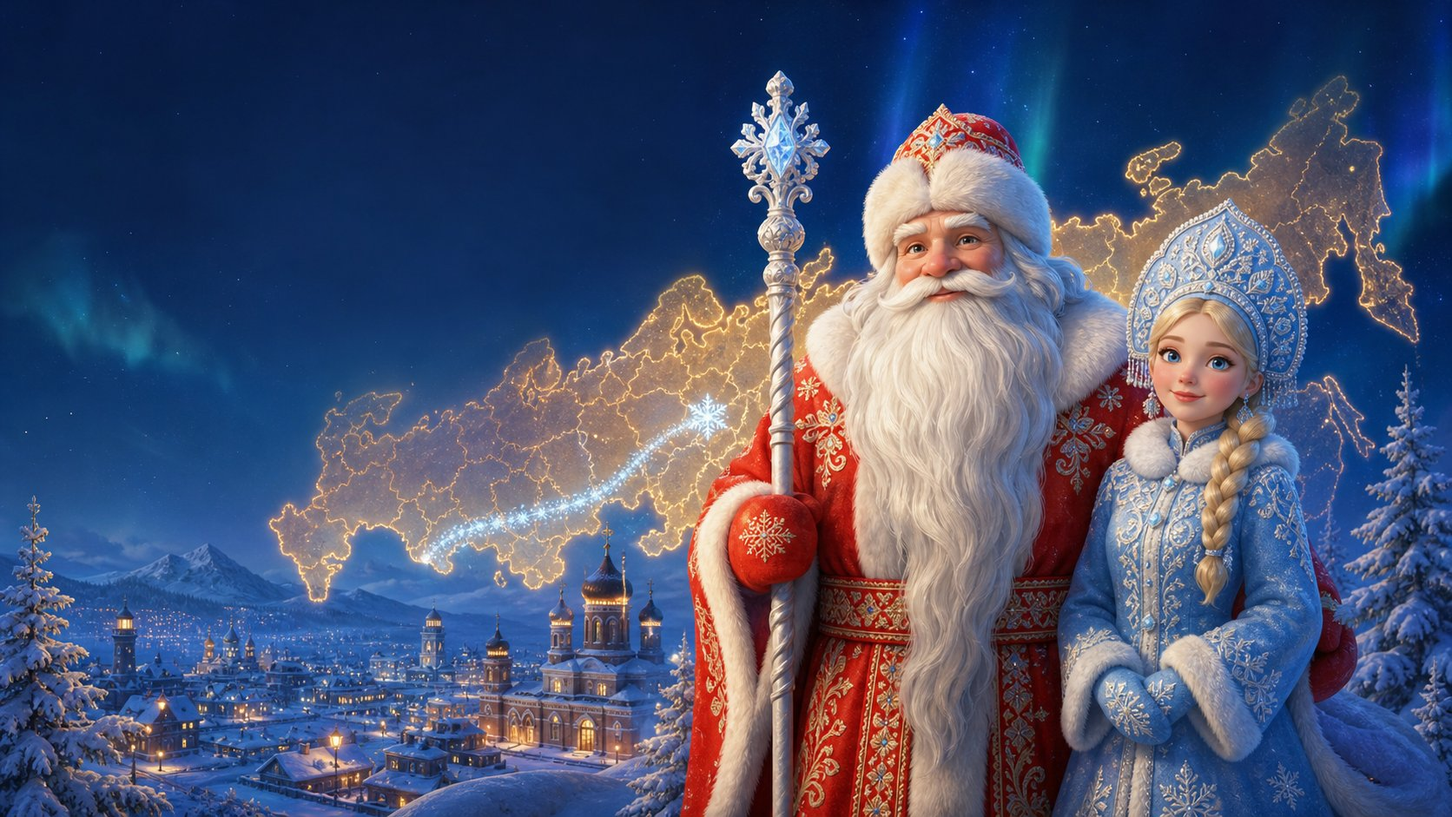
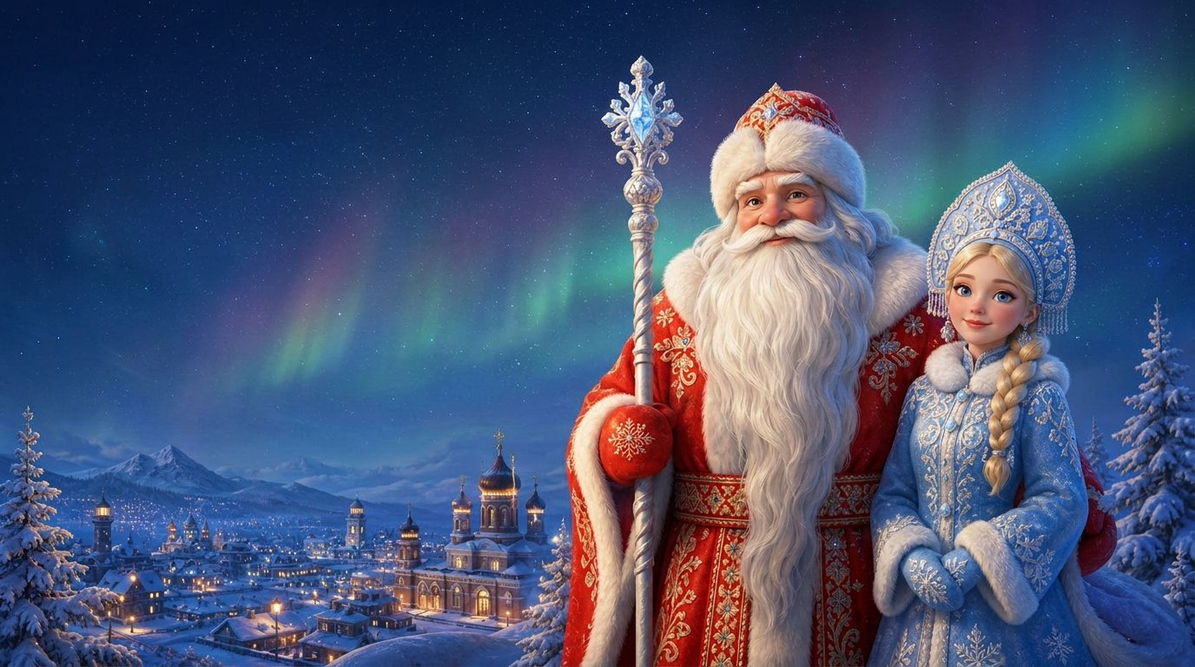
Redesign Tatarstan slide and remove cover map

diff --git a/quest.html b/quest.html
@@ -9,19 +9,20 @@
 .mapbox{position:relative}.gallery-card:after{display:none}.cover-visual>img:first-child{object-fit:contain;background:transparent}.fit-frame>img:first-child{object-fit:contain;background:transparent}.scene-card{height:auto;aspect-ratio:16/9;min-height:0}.scene-card>img:first-child{object-fit:contain;background:#101820}.scene-card:after{inset:62% 0 0}.scene-card .scene-title{z-index:3}.light-ribbons{opacity:.18}.light-ribbons path{stroke-width:1.6;stroke-dasharray:2 44;filter:drop-shadow(0 0 2px #ffcf4d);animation-duration:17s}.light-ribbons path:nth-child(2){stroke-width:1.2;animation-duration:22s}@media(max-width:600px){.two-scenes{grid-template-columns:1fr}.scene-card{aspect-ratio:16/9;min-height:0}}
 .slide{position:relative}.slide .voice-button{position:absolute;top:12px;right:12px;z-index:8;width:46px;height:46px;margin:0;padding:0;display:grid;place-items:center;gap:0;border-radius:50%;background:#192630e8;border-color:#ffffff55;box-shadow:0 4px 18px #0005}.slide .voice-button svg{width:22px;height:22px;fill:currentColor;stroke:currentColor;stroke-width:1.7;stroke-linecap:round;stroke-linejoin:round}.slide .voice-button svg path+path{fill:none}.slide .voice-button.playing{background:var(--accent);border-color:var(--accent)}.layout{display:flex;flex-direction:column;align-items:stretch;gap:clamp(18px,3vh,30px)}.layout .story-copy{order:0;max-width:none;width:100%}.layout>.visual{order:1;width:100%;height:min(52vh,560px)}.map-layout{display:flex;flex-direction:column;align-items:stretch;gap:clamp(18px,3vh,28px)}.map-layout .mapbox{width:100%}.two-scenes{grid-template-columns:minmax(0,1fr);gap:22px;margin-top:22px}.two-scenes .scene-card{width:100%;height:auto;min-height:0;aspect-ratio:16/9}.two-scenes .scene-card>img:first-child{object-fit:contain;background:#101820}@media(max-width:900px){.slide .voice-button{top:8px;right:8px;width:42px;height:42px}.layout>.visual{height:min(42vh,440px)}.two-scenes{gap:16px}}@media(max-width:600px){.slide .voice-button{top:5px;right:5px;width:40px;height:40px}.layout>.visual{height:min(38vh,360px)}.two-scenes .scene-card{aspect-ratio:16/10}}
 .dots{gap:2px}.dot{width:24px;height:24px;padding:0;display:grid;place-items:center;position:relative;background:transparent;transform:none;transition:none}.dot:before{content:"";width:7px;height:7px;border-radius:50%;background:#ffffff55;transition:transform .2s,background .2s}.dot.active{background:transparent;transform:none}.dot.active:before{background:var(--accent);transform:scale(1.55)}.toolbar{gap:8px;padding:8px 12px}.slide-controls{display:flex;align-items:center;gap:6px}.control{width:44px;height:44px;display:grid;place-items:center;flex:0 0 auto;font-size:20px;transition:background .18s,opacity .18s}.control svg{width:21px;height:21px;fill:none;stroke:currentColor;stroke-width:2;stroke-linecap:round;stroke-linejoin:round}.control.next{width:46px;height:46px;padding:0;display:grid;place-items:center}.control.edge{background:#ffffff08}.control:disabled{opacity:.34;background:#ffffff05;cursor:not-allowed}.control:not(:disabled):hover{background:#ffffff25}.control.next:not(:disabled):hover{background:#f0ca7a}.counter{min-width:64px}.toolbar-divider{width:1px;height:28px;background:#ffffff30;margin:0 2px}@media(max-width:700px){.dots{display:none}}@media(max-width:460px){.toolbar{gap:3px;padding:6px}.slide-controls{gap:2px}.control{width:40px;height:40px}.control.next{width:42px;height:42px}.counter{min-width:45px;font-size:12px}.toolbar-divider{height:24px;margin:0 1px}.control.fullscreen{width:40px;height:40px}}
+.tatarstan-content{width:100%;display:flex;flex-direction:column;align-items:center;gap:clamp(12px,2vh,18px);padding:0 12px}.tatarstan-heading{text-align:center}.tatarstan-heading .eyebrow{margin-bottom:8px}.tatarstan-choices{display:flex;justify-content:center;gap:10px;flex-wrap:wrap}.tatarstan-choice{min-width:142px;min-height:44px;padding:9px 18px;border:1px solid #ffffff38;border-radius:999px;background:#ffffff0a;color:var(--text);font-weight:700;cursor:pointer;transition:background .2s,border-color .2s,color .2s}.tatarstan-choice:hover{border-color:#ffffff80}.tatarstan-choice.active{border-color:var(--accent);background:var(--accent);color:#17212a}.tatarstan-stage{position:relative;width:min(100%,88vh,980px);aspect-ratio:16/9;max-height:50vh;margin:0 auto;overflow:hidden;border-radius:var(--radius);background:#101820}.tatarstan-stage>img{display:block;width:100%;height:100%;object-fit:contain;background:#101820}.tatarstan-stage:after{content:"";position:absolute;z-index:2;inset:62% 0 0;background:linear-gradient(transparent,#101820c9);pointer-events:none}.tatarstan-caption{position:absolute;z-index:3;left:20px;bottom:16px;color:white;font-size:clamp(21px,2.6vw,32px);font-weight:750;text-shadow:0 2px 12px #000}.tatarstan-stage .scene-particles{z-index:1}@media(max-width:600px){.tatarstan-content{gap:12px;padding:0 4px}.tatarstan-heading .eyebrow{font-size:11px}.tatarstan-choice{min-width:128px;min-height:42px;padding:8px 13px}.tatarstan-stage{width:100%;aspect-ratio:16/10;max-height:42vh}.tatarstan-caption{left:14px;bottom:12px;font-size:20px}}
 </style>
 </head>
 <body>
 <header class="top"><div class="brand"><i class="brand-mark"></i>Волшебное путешествие</div><nav class="dots" id="dots" aria-label="Слайды"></nav></header><div class="progress"><i id="progress"></i></div>
 <main id="deck">
-<section class="slide active" data-title="Волшебное путешествие"><div class="layout cover-layout"><div class="story-copy"><p class="eyebrow">Новогодние традиции народов России</p><h1>Волшебное<br>путешествие</h1><p class="subline">Откройте новогодние и сезонные традиции народов России.</p><button class="voice-button" onclick="playNarration(1,this)" aria-label="Прослушать озвучку" title="Прослушать озвучку" aria-pressed="false"><svg viewBox="0 0 24 24" aria-hidden="true" focusable="false"><path d="M4 10v4h4l5 4V6l-5 4H4z"/><path d="M16 9a5 5 0 0 1 0 6M18.5 6.5a9 9 0 0 1 0 11"/></svg></button></div><figure class="visual cover-visual"><img src="images/cover-ded-moroz.jpg" alt="Дед Мороз и Снегурочка на фоне праздничной карты России"></figure></div></section>
+<section class="slide active" data-title="Волшебное путешествие"><div class="layout cover-layout"><div class="story-copy"><p class="eyebrow">Новогодние традиции народов России</p><h1>Волшебное<br>путешествие</h1><p class="subline">Откройте новогодние и сезонные традиции народов России.</p><button class="voice-button" onclick="playNarration(1,this)" aria-label="Прослушать озвучку" title="Прослушать озвучку" aria-pressed="false"><svg viewBox="0 0 24 24" aria-hidden="true" focusable="false"><path d="M4 10v4h4l5 4V6l-5 4H4z"/><path d="M16 9a5 5 0 0 1 0 6M18.5 6.5a9 9 0 0 1 0 11"/></svg></button></div><figure class="visual cover-visual"><img src="images/cover-ded-moroz.jpg" alt="Дед Мороз и Снегурочка на фоне сияющего зимнего неба и заснеженного города"></figure></div></section>
 <section class="slide" data-title="Россия"><div class="map-layout"><div class="map-copy"><p class="eyebrow">Маршрут путешествия</p><h2>Россия</h2><p class="subline">От востока к западу · 11 часовых поясов</p><div class="stat"><strong>11</strong><span>часовых поясов</span></div><button class="voice-button" onclick="playNarration(2,this)" aria-label="Прослушать озвучку" title="Прослушать озвучку" aria-pressed="false"><svg viewBox="0 0 24 24" aria-hidden="true" focusable="false"><path d="M4 10v4h4l5 4V6l-5 4H4z"/><path d="M16 9a5 5 0 0 1 0 6M18.5 6.5a9 9 0 0 1 0 11"/></svg></button></div><div class="mapbox"><svg viewBox="0 0 1100 460" role="img" aria-label="Схематичная карта России: восток справа, запад слева, маршрут огней движется на запад"><defs><linearGradient id="sea" x1="0" y1="0" x2="1" y2="1"><stop stop-color="#e8f5f4"/><stop offset="1" stop-color="#d6e9e7"/></linearGradient><linearGradient id="ground" x1="0" y1="0" x2="0" y2="1"><stop stop-color="#fffdf6"/><stop offset="1" stop-color="#e6f0e6"/></linearGradient><marker id="arrowWest" markerWidth="12" markerHeight="12" refX="2" refY="6" orient="auto"><path d="M12 0L0 6l12 6" fill="none" stroke="#d5a238" stroke-width="2.5"/></marker></defs><rect width="1100" height="460" rx="22" fill="url(#sea)"/><path d="M72 205l50-82 87-34 72-3 60-32 83 10 67-27 74 19 71-16 58 20 61-13 51 34 57-1 57 41 32 70-31 55-69 17-61 53-80-11-56 39-81-18-66 24-74-28-71 16-69-34-72 11-56-41-71-15-27-51z" fill="url(#ground)" stroke="#7eaaa6" stroke-width="5" stroke-linejoin="round"/><text x="548" y="238" text-anchor="middle" fill="#536e72" font-size="31" font-weight="700" letter-spacing="4">РОССИЯ</text><path d="M979 214 C865 116 808 326 692 211 S476 118 357 232 S191 320 112 221" fill="none" stroke="#d5a238" stroke-width="7" stroke-linecap="round" class="route-lights"/><g class="timezone-lights" aria-hidden="true"><g class="timezone" style="--delay:0s"><rect class="timezone-bar" x="964" y="185" width="9" height="58" rx="5"/><circle class="timezone-bulb" cx="968" cy="185" r="9"/></g><g class="timezone" style="--delay:.32s"><rect class="timezone-bar" x="879" y="133" width="9" height="52" rx="5"/><circle class="timezone-bulb" cx="883" cy="133" r="9"/></g><g class="timezone" style="--delay:.64s"><rect class="timezone-bar" x="795" y="176" width="9" height="54" rx="5"/><circle class="timezone-bulb" cx="799" cy="176" r="9"/></g><g class="timezone" style="--delay:.96s"><rect class="timezone-bar" x="708" y="205" width="9" height="54" rx="5"/><circle class="timezone-bulb" cx="712" cy="205" r="9"/></g><g class="timezone" style="--delay:1.28s"><rect class="timezone-bar" x="629" y="166" width="9" height="54" rx="5"/><circle class="timezone-bulb" cx="633" cy="166" r="9"/></g><g class="timezone" style="--delay:1.6s"><rect class="timezone-bar" x="546" y="143" width="9" height="54" rx="5"/><circle class="timezone-bulb" cx="550" cy="143" r="9"/></g><g class="timezone" style="--delay:1.92s"><rect class="timezone-bar" x="465" y="157" width="9" height="54" rx="5"/><circle class="timezone-bulb" cx="469" cy="157" r="9"/></g><g class="timezone" style="--delay:2.24s"><rect class="timezone-bar" x="384" y="201" width="9" height="54" rx="5"/><circle class="timezone-bulb" cx="388" cy="201" r="9"/></g><g class="timezone" style="--delay:2.56s"><rect class="timezone-bar" x="305" y="240" width="9" height="54" rx="5"/><circle class="timezone-bulb" cx="309" cy="240" r="9"/></g><g class="timezone" style="--delay:2.88s"><rect class="timezone-bar" x="215" y="251" width="9" height="54" rx="5"/><circle class="timezone-bulb" cx="219" cy="251" r="9"/></g><g class="timezone" style="--delay:3.2s"><rect class="timezone-bar" x="123" y="193" width="9" height="54" rx="5"/><circle class="timezone-bulb" cx="127" cy="193" r="9"/></g></g><path class="travel-spark" d="M0-9 2-2 9 0 2 2 0 9-2 2-9 0-2-2Z"><animateMotion dur="7s" repeatCount="indefinite" path="M979 214 C865 116 808 326 692 211 S476 118 357 232 S191 320 112 221"/></path><g class="mapstamp"><circle cx="978" cy="214" r="25" fill="#fff" stroke="#537e80" stroke-width="4"/><text x="978" y="223" text-anchor="middle" font-size="24">☀</text></g><g class="mapstamp"><circle cx="112" cy="221" r="25" fill="#fff" stroke="#537e80" stroke-width="4"/><text x="112" y="230" text-anchor="middle" font-size="24">✦</text></g><text x="1000" y="169" text-anchor="middle" fill="#25383e" font-size="18" font-weight="800">ВОСТОК</text><text x="100" y="169" text-anchor="middle" fill="#25383e" font-size="18" font-weight="800">ЗАПАД</text><g fill="#689e82"><circle cx="252" cy="170" r="9"/><circle cx="310" cy="293" r="8"/><circle cx="743" cy="300" r="10"/><circle cx="856" cy="172" r="8"/></g><text x="252" y="153" text-anchor="middle" font-size="20">✦</text><text x="310" y="278" text-anchor="middle" font-size="20">⌂</text><text x="743" y="281" text-anchor="middle" font-size="20">△</text><text x="856" y="151" text-anchor="middle" font-size="20">✧</text></svg></div></div></section>
 <section class="slide" data-title="Общий Новый год"><div class="layout"><div class="story-copy"><p class="eyebrow">Общая традиция</p><h2>Новый год</h2><p class="subline">1 января · ёлка · куранты</p><button class="voice-button" onclick="playNarration(3,this)" aria-label="Прослушать озвучку" title="Прослушать озвучку" aria-pressed="false"><svg viewBox="0 0 24 24" aria-hidden="true" focusable="false"><path d="M4 10v4h4l5 4V6l-5 4H4z"/><path d="M16 9a5 5 0 0 1 0 6M18.5 6.5a9 9 0 0 1 0 11"/></svg></button></div><figure class="visual tree-visual"><img src="images/newyear-family.jpg" alt="Семья украшает ёлку перед Новым годом"><svg class="tree-effects" viewBox="0 0 1600 900" aria-hidden="true"><path class="garland-wire" d="M780 115 Q900 155 760 205 Q670 245 825 295 Q945 345 720 400 Q640 447 845 505 Q960 558 685 618 Q640 665 835 720"/><path class="tree-star" d="M780 15l9 19 21 2-16 14 5 21-19-11-19 11 5-21-16-14 21-2z"/><g class="bulbs"><circle cx="780" cy="115" r="8"/><circle cx="842" cy="145" r="7"/><circle cx="810" cy="184" r="8"/><circle cx="736" cy="218" r="7"/><circle cx="782" cy="263" r="8"/><circle cx="861" cy="315" r="7"/><circle cx="759" cy="353" r="8"/><circle cx="690" cy="418" r="7"/><circle cx="767" cy="472" r="8"/><circle cx="854" cy="532" r="7"/><circle cx="735" cy="580" r="8"/><circle cx="681" cy="635" r="7"/><circle cx="769" cy="684" r="8"/></g></svg></figure></div></section>
 <section class="slide" data-title="Якутия — Ысыах"><div class="layout"><div class="story-copy"><p class="eyebrow">Праздник лета</p><h2>Якутия</h2><p class="subline">Ысыах · июнь</p><button class="voice-button" onclick="playNarration(4,this)" aria-label="Прослушать озвучку" title="Прослушать озвучку" aria-pressed="false"><svg viewBox="0 0 24 24" aria-hidden="true" focusable="false"><path d="M4 10v4h4l5 4V6l-5 4H4z"/><path d="M16 9a5 5 0 0 1 0 6M18.5 6.5a9 9 0 0 1 0 11"/></svg></button></div><figure class="visual summer-visual"><img src="images/ysyakh-summer.jpg" alt="Большой круг осуохай на летнем лугу во время Ысыаха"><div class="summer-glints" aria-hidden="true"><i></i><i></i><i></i><i></i></div></figure></div></section>
 <section class="slide" data-title="Якутия — Чысхаан"><div class="layout image-left"><figure class="visual bull-visual"><img src="images/winter-bull.jpg" alt="Бык Зимы с ледяными рогами в метели"><div class="bull-magic" aria-hidden="true"><i class="horn-spark spark-left"></i><i class="horn-spark spark-right"></i><i class="frost-dot dot-one"></i><i class="frost-dot dot-two"></i><i class="frost-dot dot-three"></i><i class="frost-dot dot-four"></i><i class="hoof-puff"></i></div></figure><div class="story-copy"><p class="eyebrow">Зимнее предание</p><h2>Якутия</h2><p class="subline">Чысхаан · Бык Зимы</p><button class="voice-button" onclick="playNarration(5,this)" aria-label="Прослушать озвучку" title="Прослушать озвучку" aria-pressed="false"><svg viewBox="0 0 24 24" aria-hidden="true" focusable="false"><path d="M4 10v4h4l5 4V6l-5 4H4z"/><path d="M16 9a5 5 0 0 1 0 6M18.5 6.5a9 9 0 0 1 0 11"/></svg></button></div></div></section>
 <section class="slide" data-title="Бурятия — Сагаалган"><div class="layout"><div class="story-copy"><p class="eyebrow">Белый месяц</p><h2>Бурятия</h2><p class="subline">Сагаалган · Новый год по лунному календарю</p><p class="subline">Молочные угощения · буузы</p><button class="voice-button" onclick="playNarration(6,this)" aria-label="Прослушать озвучку" title="Прослушать озвучку" aria-pressed="false"><svg viewBox="0 0 24 24" aria-hidden="true" focusable="false"><path d="M4 10v4h4l5 4V6l-5 4H4z"/><path d="M16 9a5 5 0 0 1 0 6M18.5 6.5a9 9 0 0 1 0 11"/></svg></button></div><figure class="visual steam-visual"><img src="images/sagaan-table.jpg" alt="Буузы и молочные угощения на столе к Сагаалгану"><div class="steam-effects" aria-hidden="true"><i></i><i></i><i></i></div></figure></div></section>
 <section class="slide" data-title="Бурятия — Сагаан Убгэн"><div class="layout image-left"><figure class="visual fit-frame"><img src="images/buryat-dragon-staff.jpg" alt="Стилизованный образ Сагаан Убгэна с посохом, увенчанным головой дракона"></figure><div class="story-copy"><p class="eyebrow">Белый Старец</p><h2>Бурятия</h2><p class="subline">Сагаан Убгэн · долгая жизнь</p><button class="voice-button" onclick="playNarration(13,this)" aria-label="Прослушать озвучку" title="Прослушать озвучку" aria-pressed="false"><svg viewBox="0 0 24 24" aria-hidden="true" focusable="false"><path d="M4 10v4h4l5 4V6l-5 4H4z"/><path d="M16 9a5 5 0 0 1 0 6M18.5 6.5a9 9 0 0 1 0 11"/></svg></button></div></div></section>
-<section class="slide" data-title="Татарстан"><div><p class="eyebrow">Зимний персонаж и весенний праздник</p><h2>Татарстан</h2><div class="two-scenes"><figure class="scene-card winter-scene"><img src="images/kysh-babai.jpg" alt="Кыш Бабай и Кар Кызы в зимнем лесу"><div class="scene-particles snow" aria-hidden="true"><i></i><i></i><i></i><i></i><i></i></div><figcaption class="scene-title">Кыш Бабай</figcaption></figure><figure class="scene-card spring-scene"><img src="images/navruz-spring.jpg" alt="Весенние ростки и праздничный стол к Наврузу"><div class="scene-particles petals" aria-hidden="true"><i></i><i></i><i></i><i></i></div><figcaption class="scene-title">Навруз</figcaption></figure></div><button class="voice-button" onclick="playNarration(7,this)" aria-label="Прослушать озвучку" title="Прослушать озвучку" aria-pressed="false"><svg viewBox="0 0 24 24" aria-hidden="true" focusable="false"><path d="M4 10v4h4l5 4V6l-5 4H4z"/><path d="M16 9a5 5 0 0 1 0 6M18.5 6.5a9 9 0 0 1 0 11"/></svg></button></div></section>
+<section class="slide tatarstan-slide" data-title="Татарстан"><div class="tatarstan-content"><div class="tatarstan-heading"><p class="eyebrow">Зимний персонаж и весенний праздник</p><h2>Татарстан</h2></div><div class="tatarstan-choices" role="group" aria-label="Изображения праздников Татарстана"><button class="tatarstan-choice active" data-image="images/kysh-babai.jpg" data-alt="Кыш Бабай и Кар Кызы в зимнем лесу" data-caption="Кыш Бабай" data-particles="snow" aria-pressed="true" onclick="selectTatarstan(this)">Кыш Бабай</button><button class="tatarstan-choice" data-image="images/navruz-spring.jpg" data-alt="Весенний праздничный стол к Наврузу в Татарстане" data-caption="Навруз" data-particles="petals" aria-pressed="false" onclick="selectTatarstan(this)">Навруз</button></div><figure class="tatarstan-stage"><img id="tatarstanImage" src="images/kysh-babai.jpg" alt="Кыш Бабай и Кар Кызы в зимнем лесу"><div id="tatarstanParticles" class="scene-particles snow" aria-hidden="true"><i></i><i></i><i></i><i></i><i></i></div><figcaption id="tatarstanCaption" class="tatarstan-caption">Кыш Бабай</figcaption></figure><button class="voice-button" onclick="playNarration(7,this)" aria-label="Прослушать озвучку" title="Прослушать озвучку" aria-pressed="false"><svg viewBox="0 0 24 24" aria-hidden="true" focusable="false"><path d="M4 10v4h4l5 4V6l-5 4H4z"/><path d="M16 9a5 5 0 0 1 0 6M18.5 6.5a9 9 0 0 1 0 11"/></svg></button></div></section>
 <section class="slide" data-title="Удмуртия — Тол Бабай"><div class="layout"><div class="story-copy"><p class="eyebrow">Добрый зимний герой</p><h2>Удмуртия</h2><p class="subline">Тол Бабай · великан алангасар</p><button class="voice-button" onclick="playNarration(8,this)" aria-label="Прослушать озвучку" title="Прослушать озвучку" aria-pressed="false"><svg viewBox="0 0 24 24" aria-hidden="true" focusable="false"><path d="M4 10v4h4l5 4V6l-5 4H4z"/><path d="M16 9a5 5 0 0 1 0 6M18.5 6.5a9 9 0 0 1 0 11"/></svg></button></div><figure class="visual frost-visual"><img src="images/tol-babai.jpg" alt="Тол Бабай в фиолетовой шубе с берестяным коробом"><div class="frost-sparkles" aria-hidden="true"><i></i><i></i><i></i><i></i></div></figure></div></section>
 <section class="slide" data-title="Поволжье — зимние посиделки"><div class="layout image-left"><figure class="visual winter-visual"><img src="images/sheep-folk.jpg" alt="Овца и зимнее застолье в деревне"><div class="scene-particles snow" aria-hidden="true"><i></i><i></i><i></i><i></i></div></figure><div class="story-copy multi-regions"><p class="eyebrow">Зимние посиделки</p><h2>Чувашия · Марий Эл · Мордовия</h2><p class="subline">Сурхури · Шорыкйол</p><button class="voice-button" onclick="playNarration(9,this)" aria-label="Прослушать озвучку" title="Прослушать озвучку" aria-pressed="false"><svg viewBox="0 0 24 24" aria-hidden="true" focusable="false"><path d="M4 10v4h4l5 4V6l-5 4H4z"/><path d="M16 9a5 5 0 0 1 0 6M18.5 6.5a9 9 0 0 1 0 11"/></svg></button></div></div></section>
 <section class="slide" data-title="Ещё региональные истории"><div><p class="eyebrow">Семь остановок</p><h2>Истории регионов</h2><div class="region-layout" style="margin-top:22px"><figure class="region-preview"><img id="regionImage" src="images/steppe-winter.jpg" alt="Зимнее праздничное застолье в степи"><div class="region-glints" aria-hidden="true"><i></i><i></i><i></i></div><figcaption id="regionCaption" class="scene-title">Калмыкия · Цаган Сар</figcaption><button class="image-expand" onclick="openImageViewer('regionImage','regionCaption')">⛶ На весь экран</button></figure><div><div class="region-grid" id="regionList"><button class="region-button active" data-name="Калмыкия · Цаган Сар" data-image="images/steppe-winter.jpg" data-alt="Калмыцкая семья за праздничным столом в степи" onclick="selectRegion(this)"><strong>Калмыкия</strong><span>Цаган Сар · весеннее обновление</span></button><button class="region-button" data-name="Тыва · Шагаа и Зул" data-image="images/journey-steppe.jpg" data-alt="Зимняя степная сцена для рассказа о Тыве" onclick="selectRegion(this)"><strong>Тыва</strong><span>Шагаа · Зул</span></button><button class="region-button" data-name="Осетия · Ног Бон" data-image="images/ossetia-nog-bon.jpg" data-alt="Осетинские пироги на праздничном столе" onclick="selectRegion(this)"><strong>Осетия</strong><span>Ног Бон · пироги</span></button><button class="region-button" data-name="Башкортостан · Каргатуй" data-image="images/bashkortostan-kargatuy.jpg" data-alt="Весенняя роща и грачи — образ Каргатуя" onclick="selectRegion(this)"><strong>Башкортостан</strong><span>Каргатуй · праздник грачей</span></button><button class="region-button" data-name="Чукотка · Пэгытти" data-image="images/chukotka-pegytti.jpg" data-alt="Звёздное небо над Чукоткой, связанное с Пэгытти" onclick="selectRegion(this)"><strong>Чукотка</strong><span>Пэгытти · созвездие Орла</span></button><button class="region-button" data-name="Ямал · Ямал Ири" data-image="images/yamal-iri.jpg" data-alt="Ямал Ири в тундре с оленьей упряжкой" onclick="selectRegion(this)"><strong>Ямал</strong><span>Ямал Ири · герой тундры</span></button><button class="region-button" data-name="Карелия · Талвиукко" data-image="images/pakkaine.jpg" data-alt="Сказочный зимний герой в карельском лесу" onclick="selectRegion(this)"><strong>Карелия</strong><span>Талвиукко</span></button></div><button class="voice-button" onclick="playNarration(11,this)" aria-label="Прослушать озвучку" title="Прослушать озвучку" aria-pressed="false"><svg viewBox="0 0 24 24" aria-hidden="true" focusable="false"><path d="M4 10v4h4l5 4V6l-5 4H4z"/><path d="M16 9a5 5 0 0 1 0 6M18.5 6.5a9 9 0 0 1 0 11"/></svg></button></div></div></div></section>
@@ -41,6 +42,7 @@ function goTo(i){const target=Math.max(0,Math.min(slides.length-1,i));if(target!
 function next(){goTo(current+1)}function prev(){goTo(current-1)}function last(){goTo(slides.length-1)}
 slides.forEach((s,i)=>{const b=document.createElement('button');b.className='dot'+(i===0?' active':'');b.title=s.dataset.title;b.setAttribute('aria-label',`Слайд ${i+1}: ${s.dataset.title}`);b.setAttribute('aria-current',i===0?'step':'false');b.onclick=()=>goTo(i);dots.appendChild(b)});updateNavigation();
 function selectRegion(button){document.querySelectorAll('.region-button').forEach(x=>x.classList.toggle('active',x===button));const img=document.getElementById('regionImage');img.src=button.dataset.image;img.alt=button.dataset.alt;img.classList.remove('fade-in');void img.offsetWidth;img.classList.add('fade-in');document.getElementById('regionCaption').textContent=button.dataset.name}
+function selectTatarstan(button){document.querySelectorAll('.tatarstan-choice').forEach(x=>{const active=x===button;x.classList.toggle('active',active);x.setAttribute('aria-pressed',String(active))});const image=document.getElementById('tatarstanImage');image.src=button.dataset.image;image.alt=button.dataset.alt;image.classList.remove('fade-in');void image.offsetWidth;image.classList.add('fade-in');document.getElementById('tatarstanCaption').textContent=button.dataset.caption;document.getElementById('tatarstanParticles').className=`scene-particles ${button.dataset.particles}`}
 function openImageViewer(imgId,captionId){const img=document.getElementById(imgId),viewer=document.getElementById('imageViewer');document.getElementById('viewerImage').src=img.src;document.getElementById('viewerImage').alt=img.alt;document.getElementById('viewerCaption').textContent=document.getElementById(captionId).textContent;viewer.classList.add('open')}
 function closeImageViewer(){document.getElementById('imageViewer').classList.remove('open')}
 async function toggleTheatre(){try{if(!document.fullscreenElement)await document.documentElement.requestFullscreen();else await document.exitFullscreen()}catch(e){document.body.classList.toggle('theatre')}}
